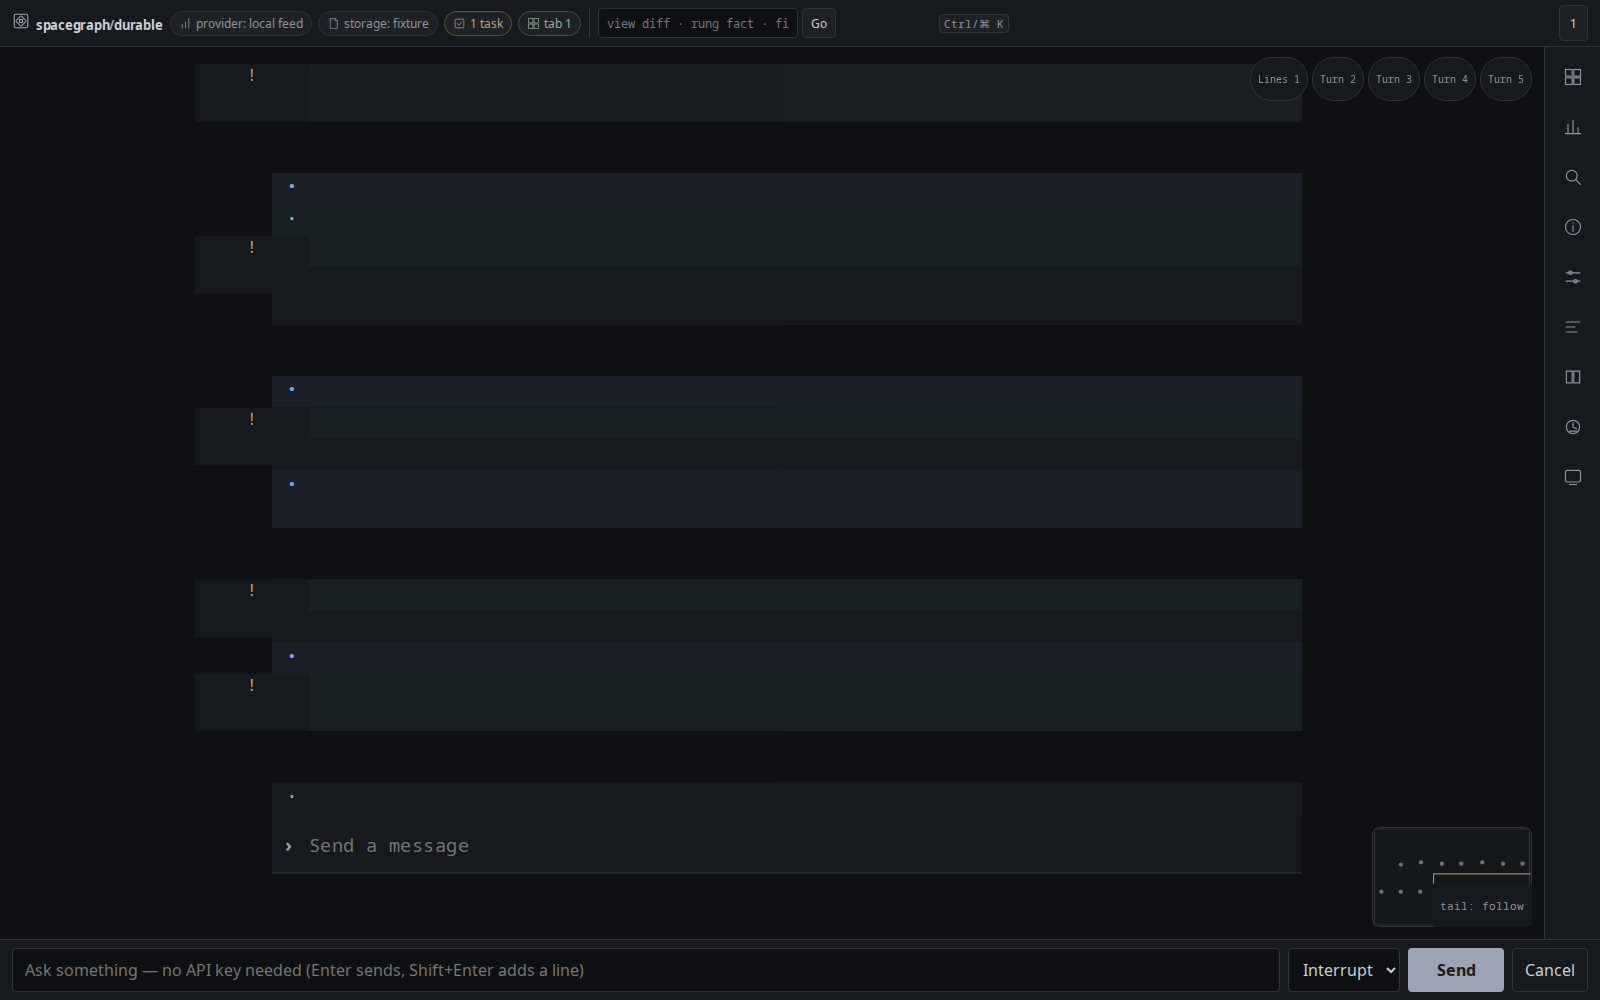
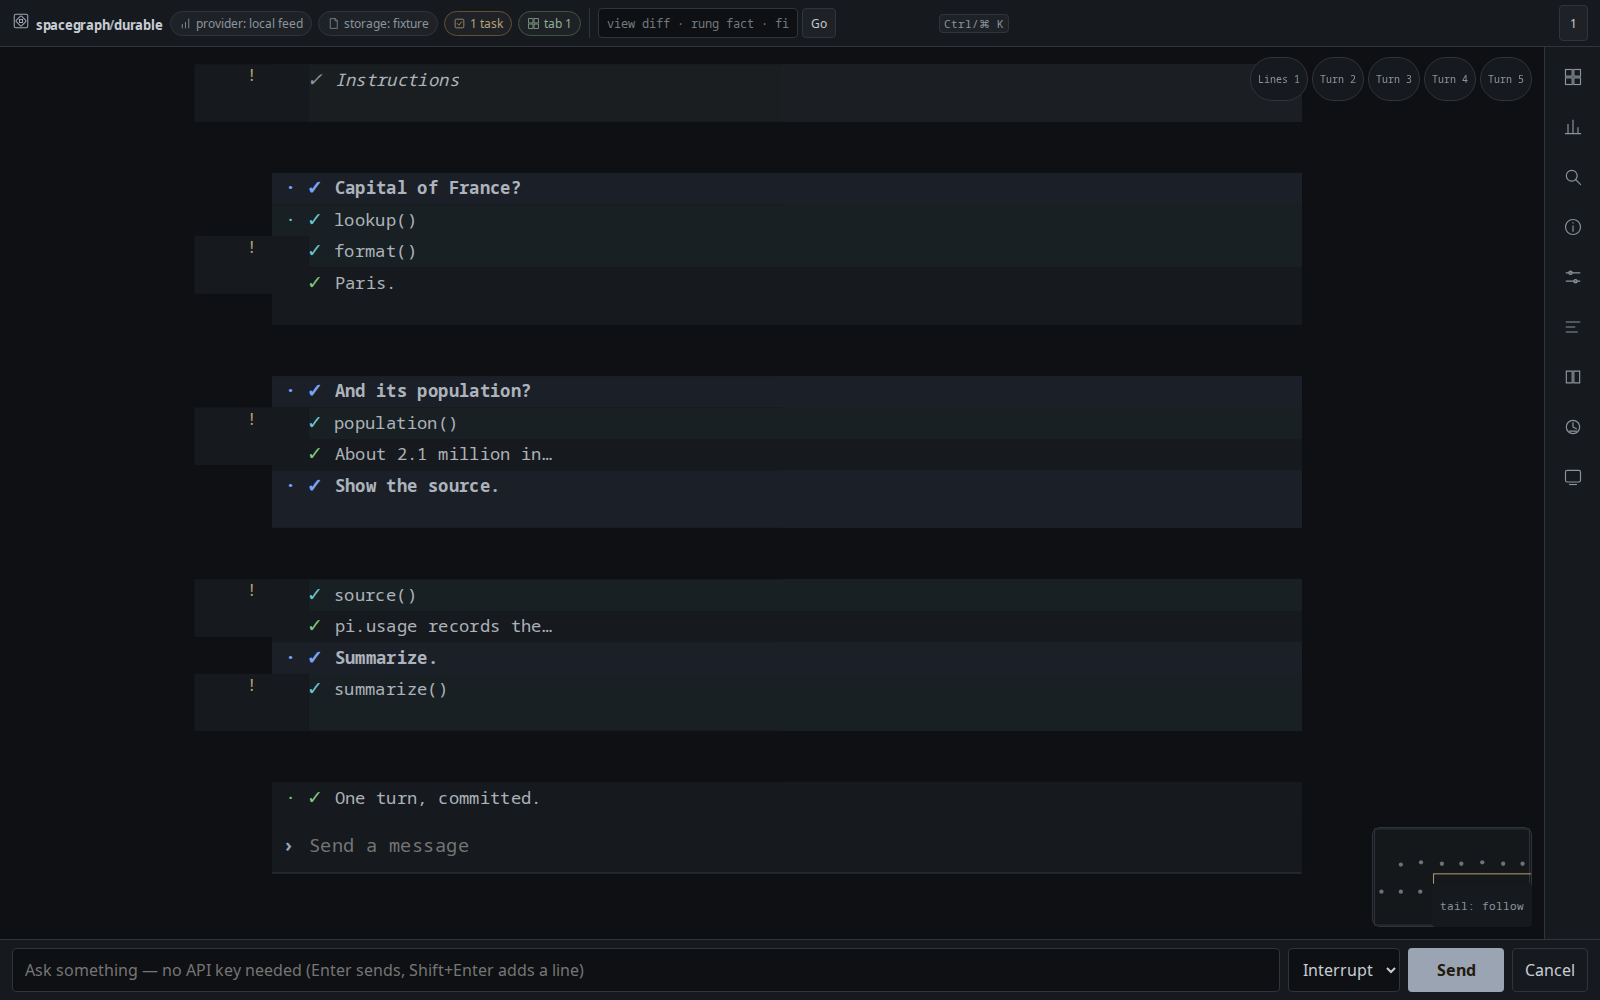
feat(terminal): make console fidelity controllable and shareable
- Add a three-stage glyph, label and text LOD with configurable stops
- Add a /lod catalog command with auto mode to pin or release fidelity
- Round-trip the pinned band through compact and full permalinks
- Initialize LOD from the current camera instead of a default guess
- Update the fractal capture and E2E coverage

diff --git a/app/pi-durable/src/host.ts b/app/pi-durable/src/host.ts
@@ -65,6 +65,7 @@ import {
     mountTerminalPrompt,
     mountTerminalSink,
     playTerminalReplay,
+    TERMINAL_LOD_BANDS,
     TERMINAL_MODES,
     TERMINAL_PALETTES,
     TERMINAL_PROFILES,
@@ -755,6 +756,7 @@ export class DurableHost {
     #consoleGrid: TerminalGrid = CONSOLE_GRID;
     #regionsEnabled = false;
     #consoleLOD = 'card';
+    #lodOverride: string | undefined;
     #hoveredLine: string | undefined;
     #consoleModel: RenderModel = { nodes: [], edges: [] };
     #a11yLayer: AccessibilityLayer | undefined;
@@ -794,6 +796,9 @@ export class DurableHost {
 
     async mount(container: HTMLElement): Promise<void> {
         await this.renderer.mount(container, { theme: THEME, projection: '2d' });
+        this.#consoleLOD = terminalLODFor(
+            this.#scale.normalizedAt(this.renderer.getViewport().zoom),
+        );
         this.renderer.on('nodeClick', ({ id }) => {
             if (this.#viewName !== 'transcript') this.focus(id);
         });
@@ -801,7 +806,7 @@ export class DurableHost {
         this.renderer.on('viewportChange', ({ zoom, center }) => {
             this.patchView({ camera: { zoom, center } });
             const lod = terminalLODFor(this.#scale.normalizedAt(zoom));
-            if (lod !== this.#consoleLOD) {
+            if (!this.#lodOverride && lod !== this.#consoleLOD) {
                 this.#consoleLOD = lod;
                 if (this.#viewName === 'transcript') this.#terminalController?.refresh();
             }
@@ -1819,6 +1824,7 @@ export class DurableHost {
         const bookmark = [...this.#bookmarks.values()].at(-1);
         if (bookmark) params.set('bm', terminalBookmark.encode(bookmark));
         if (this.#regionsEnabled) params.set('regions', 'on');
+        if (this.#lodOverride) params.set('lod', this.#lodOverride);
         const viewport = this.renderer.getViewport?.();
         if (viewport) params.set('zoom', viewport.zoom.toFixed(3));
         return `${location.pathname}?${params.toString()}`;
@@ -1882,6 +1888,7 @@ export class DurableHost {
             lens: inConsole ? this.#lensTrail.current?.id : undefined,
             bm: bookmark ? terminalBookmark.encode(bookmark) : undefined,
             regions: inConsole && this.#regionsEnabled ? 'on' : undefined,
+            lod: inConsole ? this.#lodOverride : undefined,
         };
     }
 
@@ -1918,6 +1925,27 @@ export class DurableHost {
         Object.assign(this.#consolePresentation, presentation);
         this.refresh();
         return this.#consolePresentation;
+    }
+
+    /** Pin a fidelity band, or `auto` to follow camera zoom again. */
+    consoleLOD(band?: string): string {
+        if (band === undefined) return this.#lodOverride ?? this.#consoleLOD;
+        if (band === 'auto') {
+            this.#lodOverride = undefined;
+            this.#consoleLOD = terminalLODFor(
+                this.#scale.normalizedAt(this.renderer.getViewport().zoom),
+            );
+        } else if (TERMINAL_LOD_BANDS.includes(band as (typeof TERMINAL_LOD_BANDS)[number])) {
+            this.#lodOverride = band;
+            this.#consoleLOD = band;
+        } else {
+            this.announce(`Unknown console fidelity: ${band}`);
+            return this.#lodOverride ?? this.#consoleLOD;
+        }
+        Object.assign(this.#consolePresentation, { zoomLOD: true });
+        this.#terminalController?.refresh();
+        this.announce(`Console fidelity: ${this.#consoleLOD}`);
+        return this.#consoleLOD;
     }
 
     #consoleLayout(lines = this.#terminalController?.lines() ?? []) {
@@ -2001,6 +2029,9 @@ export class DurableHost {
         });
         action('regions', (rest) => {
             this.setConsoleRegions(rest !== 'off');
+        });
+        action('lod', (rest) => {
+            this.consoleLOD(rest.trim() || 'auto');
         });
         action('lens.focus', (rest) => {
             this.consoleFocus(rest);
@@ -2512,6 +2543,7 @@ export class DurableHost {
             this.#terminalController?.select(range);
             if (address.pal) this.#terminal()?.setPalette(address.pal);
             if (address.regions !== undefined) this.setConsoleRegions(address.regions === 'on');
+            if (address.lod) this.consoleLOD(address.lod);
             if (address.lens) this.consoleFocus(address.lens);
             const bookmark = terminalBookmark.decode(address.bm);
             if (bookmark) {
@@ -2589,7 +2621,7 @@ export class DurableHost {
                 return terminalExport(terminal.lines(), terminal.selection(), format);
             },
             consoleBand: () => this.#terminalController?.band() ?? DEFAULT_RUNG_IDS[0],
-            consoleLOD: () => this.#consoleLOD,
+            consoleLOD: (band?: string) => this.consoleLOD(band),
             consoleChapters: () => terminalChapters(lines()),
             consoleReplaySteps: () => terminalReplaySteps(lines()).length,
             consoleChapterRail: () =>

diff --git a/src/terminal.ts b/src/terminal.ts
@@ -707,6 +707,7 @@ export const terminalConsoleCommands = (
         entry('fork', 'fork', '/fork [line]', ['branch'], gate(gates.fork, 'Nothing to fork')),
         entry('why', 'why', '/why', ['provenance']),
         entry('monitor', 'monitor', '/monitor', ['sidecar', 'logtail']),
+        entry('lod', 'lod', '/lod <dot|glyph|card|detail|auto>', ['fidelity', 'density']),
         entry('autoZoom', 'auto zoom', '/auto zoom', ['regions', 'flyTo']),
         entry('regions', 'regions', '/regions [on|off]', ['bands']),
         entry('read.lens', 'read lens', '/read lens [scope]', ['document', 'reading']),
@@ -1272,13 +1273,31 @@ export const lineHTML = (
     return `<span class="tg-gutter">${escapeHtml(lineGlyph(line, glyphs))} ${escapeHtml(statusGlyph(line, glyphs))}</span><span class="tg-text"${direction ? ` dir="${direction}"` : ''}>${text}</span>`;
 };
 
+export const TERMINAL_LOD_BANDS = ['dot', 'glyph', 'card', 'detail'] as const;
+export type TerminalLODBand = (typeof TERMINAL_LOD_BANDS)[number];
+
+export type TerminalLODStops = {
+    readonly dot?: number;
+    readonly glyph?: number;
+    readonly detail?: number;
+};
+
+const DEFAULT_LOD_STOPS: TerminalLODStops = { dot: 0.15, glyph: 0.4, detail: 0.9 };
+
 /** Map a continuous zoom position (0 far, 1 near) onto the terminal fidelity ladder. */
 export const terminalLODFor = (
     normalized: number,
     ladder: readonly string[] = DEFAULT_RUNG_IDS,
+    stops: TerminalLODStops = DEFAULT_LOD_STOPS,
 ): string => {
     const index =
-        normalized < 0.15 ? 0 : normalized < 0.4 ? 1 : normalized < 0.9 ? 2 : ladder.length - 1;
+        normalized < (stops.dot ?? 0.15)
+            ? 0
+            : normalized < (stops.glyph ?? 0.4)
+              ? 1
+              : normalized < (stops.detail ?? 0.9)
+                ? 2
+                : ladder.length - 1;
     return ladder[index]!;
 };
 
@@ -1287,18 +1306,32 @@ export type TerminalLineHTMLOptions = {
     readonly matches?: readonly (readonly [number, number])[];
     readonly band?: string;
     readonly ladder?: readonly string[];
+    /** Characters kept in the label stage between glyph and full text. */
+    readonly labelChars?: number;
 };
 
-/** At far zoom bands a line becomes an accessible glyph; identity and text remain addressable. */
+/** Zoom fidelity: glyph, short label, or full text. Identity and text stay addressable throughout. */
 export const terminalLineHTML = (
     line: TerminalLine,
     glyphs: TerminalGlyphs = terminalGlyphs(),
-    { direction, matches = [], band, ladder = DEFAULT_RUNG_IDS }: TerminalLineHTMLOptions = {},
+    {
+        direction,
+        matches = [],
+        band,
+        ladder = DEFAULT_RUNG_IDS,
+        labelChars = 20,
+    }: TerminalLineHTMLOptions = {},
 ): string => {
     const at = band ? ladder.indexOf(band) : ladder.length - 1;
-    if (at >= 0 && at <= 1) {
-        const label = escapeHtml(line.text || line.label);
-        return `<span class="tg-glyph-only" aria-label="${label}" title="${label}">${escapeHtml(lineGlyph(line, glyphs))}</span>`;
+    const label = line.text || line.label;
+    const escaped = escapeHtml(label);
+    const gutter = `<span class="tg-gutter">${escapeHtml(lineGlyph(line, glyphs))} ${escapeHtml(statusGlyph(line, glyphs))}</span>`;
+    if (at === 0)
+        return `<span class="tg-glyph-only" aria-label="${escaped}" title="${escaped}">${escapeHtml(lineGlyph(line, glyphs))}</span>`;
+    if (at === 1) {
+        const short = escapeHtml(label.slice(0, Math.max(1, labelChars)).trim());
+        const suffix = label.length > labelChars ? '…' : '';
+        return `${gutter}<span class="tg-glyph-label" aria-label="${escaped}" title="${escaped}">${short}${suffix}</span>`;
     }
     return lineHTML(line, glyphs, direction, matches);
 };

diff --git a/app/pi-durable/src/address.ts b/app/pi-durable/src/address.ts
@@ -1,4 +1,4 @@
-import { TERMINAL_MODES, type TerminalMode } from 'spacegraphjs/terminal';
+import { TERMINAL_LOD_BANDS, TERMINAL_MODES, type TerminalMode } from 'spacegraphjs/terminal';
 import { viewStateCodec, type ViewStateRecord } from 'spacegraphjs/view-state';
 import { LAYOUT_NAMES, type LayoutName } from './lens';
 import { isRung, type Rung } from './rungs';
@@ -31,6 +31,8 @@ export type Address = {
     readonly bm?: string;
     /** Console region overlays, encoded as `on`. */
     readonly regions?: string;
+    /** Pinned console fidelity band, from `TERMINAL_LOD_BANDS`. */
+    readonly lod?: string;
 };
 
 export const CONSOLE_DETAIL_MODES = ['inline', 'popup', 'rail'] as const;
@@ -70,24 +72,28 @@ const flatten = (address: Address): ViewStateRecord => ({
     lens: address.lens,
     bm: address.bm,
     regions: address.regions,
+    lod: address.lod,
 });
 
 const parse = (record: ViewStateRecord): Address | undefined => {
     const {
         view, layout, focus, zoom, asOf, s, shot, sel, tail, pal, det, q, mode, lens, bm, regions,
+        lod,
     } = record;
     if (typeof det === 'string' && !parseDetailKey(det)) return undefined;
     if (mode !== undefined && !TERMINAL_MODES.includes(mode as TerminalMode)) return undefined;
+    if (lod !== undefined && !TERMINAL_LOD_BANDS.includes(lod as (typeof TERMINAL_LOD_BANDS)[number]))
+        return undefined;
     const band: unknown = record.band ?? record.rung;
     if (view !== undefined && !VIEW_NAMES.includes(view as ViewName)) return undefined;
     if (band !== undefined && !isRung(band)) return undefined;
     if (layout !== undefined && !LAYOUT_NAMES.includes(layout as LayoutName)) return undefined;
-    for (const value of [s, shot, focus, sel, tail, pal, det, q, lens, bm, regions])
+    for (const value of [s, shot, focus, sel, tail, pal, det, q, lens, bm, regions, lod])
         if (value !== undefined && typeof value !== 'string') return undefined;
     return Object.fromEntries(
         Object.entries({
             s, shot, view, rung: band, layout, asOf, zoom, focus, sel, tail, pal, det, q,
-            mode, lens, bm, regions,
+            mode, lens, bm, regions, lod,
         }).filter(([, value]) => value !== undefined),
     ) as Address;
 };
@@ -96,7 +102,7 @@ const codec = viewStateCodec<Address>({
     format: 'compact',
     keys: [
         's', 'shot', 'view', 'band', 'rung', 'layout', 'asOf', 'zoom', 'focus', 'sel', 'tail',
-        'pal', 'det', 'q', 'mode', 'lens', 'bm', 'regions', 'version',
+        'pal', 'det', 'q', 'mode', 'lens', 'bm', 'regions', 'lod', 'version',
     ],
     flatten,
     parse,

diff --git a/app/pi-durable/tests/zoom-lod.spec.ts b/app/pi-durable/tests/zoom-lod.spec.ts
@@ -1,9 +1,7 @@
 import { expect, test } from '@playwright/test';
 import { bootConsole, call, settle } from './boot';
 
-test('fractal profile collapses console text at far zoom and restores it close up', async ({
-    page,
-}) => {
+test('fractal profile steps through glyph, label and text fidelity', async ({ page }) => {
     const errors = await bootConsole(page);
     const lod = (): Promise<string> => call<string>(page, 'consoleLOD');
     await expect(page.locator('#canvas .tg-text').first()).toBeVisible();
@@ -11,20 +9,41 @@ test('fractal profile collapses console text at far zoom and restores it close u
     await call(page, 'consoleProfile', 'fractal');
     await settle(page);
     expect(await lod()).toBe('glyph');
-    await expect(page.locator('#canvas .tg-glyph-only').first()).toBeVisible();
-    expect(
-        await page.locator('#canvas .sg-terminal-line[data-lod="glyph"]').count(),
-    ).toBeGreaterThan(0);
+    await expect(page.locator('#canvas .tg-glyph-label').first()).toBeVisible();
     expect(await page.locator('#canvas .tg-text').count()).toBe(0);
     expect(await page.locator('#canvas [data-node-id^="chapter-label-"]').count()).toBe(0);
 
-    await call(page, 'zoomBy', 2);
+    await call(page, 'zoomBy', 0.4);
+    await settle(page);
+    expect(await lod()).toBe('dot');
+    await expect(page.locator('#canvas .tg-glyph-only').first()).toBeVisible();
+    expect(await page.locator('#canvas .tg-glyph-label').count()).toBe(0);
+
+    await call(page, 'zoomBy', 5);
     await settle(page);
     expect(await lod()).toBe('card');
     expect(await page.locator('#canvas .tg-text').count()).toBeGreaterThan(0);
     expect(
         await page.locator('#canvas [data-node-id^="chapter-label-"]').count(),
     ).toBeGreaterThan(0);
+    expect(errors).toEqual([]);
+});
+
+test('a pinned fidelity band survives a permalink', async ({ page }) => {
+    const errors = await bootConsole(page);
+    const lod = (): Promise<string> => call<string>(page, 'consoleLOD');
+    expect(await call<string>(page, 'consoleLOD', 'dot')).toBe('dot');
+    expect(await lod()).toBe('dot');
+    expect(await page.locator('#canvas .tg-glyph-only').count()).toBeGreaterThan(0);
+
+    const link = await call<string>(page, 'permalink');
+    expect(link).toContain('lod=dot');
+    await call(page, 'zoomBy', 2);
+    expect(await lod()).toBe('dot');
+    await call(page, 'applyPermalink', link);
+    expect(await lod()).toBe('dot');
+    await call(page, 'consoleLOD', 'auto');
+    expect(await lod()).toBe('glyph');
     expect(errors).toEqual([]);
 });
 

diff --git a/test/terminal.test.ts b/test/terminal.test.ts
@@ -364,8 +364,11 @@ describe('glyph grammar', () => {
         expect(far).not.toContain('tg-text');
         expect(far).not.toContain('<b>');
         expect(terminalLineHTML(entry, terminalGlyphs(), { band: 'glyph' })).toContain(
-            'tg-glyph-only',
+            'tg-glyph-label',
         );
+        const short = terminalLineHTML(entry, terminalGlyphs(), { band: 'glyph', labelChars: 3 });
+        expect(short).toContain('&lt;b&gt;…');
+        expect(short).toContain('aria-label="&lt;b&gt;x&lt;/b&gt;"');
         expect(terminalLineHTML(entry, terminalGlyphs(), { band: 'card' })).toContain('tg-text');
         expect(terminalLineHTML(entry, terminalGlyphs())).toContain('tg-text');
         expect(
@@ -384,6 +387,7 @@ describe('zoom fidelity ladder', () => {
         expect(terminalLODFor(0.5)).toBe('card');
         expect(terminalLODFor(1)).toBe('detail');
         expect(terminalLODFor(1, ['far', 'near'])).toBe('near');
+        expect(terminalLODFor(0.5, undefined, { dot: 0.1, glyph: 0.2, detail: 0.4 })).toBe('detail');
     });
 });
 
@@ -1042,7 +1046,7 @@ describe('console command catalog', () => {
         expect(commands.list().map((command) => command.id)).toEqual([
             'copy', 'export', 'search', 'filter', 'read', 'zoom',
             'pin.live', 'pin.snapshot',
-            'pin.matches', 'profile', 'asOf', 'fork', 'why', 'monitor', 'autoZoom', 'regions',
+            'pin.matches', 'profile', 'asOf', 'fork', 'why', 'monitor', 'lod', 'autoZoom', 'regions',
             'read.lens',
             'lens.focus', 'bookmark', 'help',
         ]);

diff --git a/app/pi-durable/index.html b/app/pi-durable/index.html
@@ -105,6 +105,8 @@
             .sg-terminal-line .tg-text { min-width: 0; color: var(--text); white-space: pre-wrap; }
             .sg-terminal-line .tg-text[dir='rtl'] { direction: rtl; text-align: right; flex: 1; }
             .sg-terminal-line .tg-glyph-only { color: var(--line-accent); font-size: 16px; line-height: 1; }
+            .sg-terminal-line .tg-glyph-label { color: var(--text); opacity: .85; font-size: 12px;
+                letter-spacing: .02em; white-space: nowrap; overflow: hidden; text-overflow: ellipsis; }
             .sg-terminal-line[data-role='user'] { --line-accent: #7aa2f7; font-weight: 600;
                 background: color-mix(in srgb, #7aa2f7 5%, transparent); }
             .sg-terminal-line[data-role='assistant'] { --line-accent: #7ec87e; }

diff --git a/app/pi-durable/tests/address.test.ts b/app/pi-durable/tests/address.test.ts
@@ -7,7 +7,7 @@ const address: Address = {
     sel: 'd:1:message:1:0~d:1:message:2:8', tail: 'd:1:message:2',
     pal: 'retro', det: 'popup~d:1:message:2',
     q: 'ERROR', mode: 'derived',
-    lens: 'line:d:1:message:2', bm: 'bookmark-token',
+    lens: 'line:d:1:message:2', bm: 'bookmark-token', regions: 'on', lod: 'dot',
 };
 
 describe('deep-link codec', () => {
@@ -41,5 +41,6 @@ describe('deep-link codec', () => {
         expect(decodeAddress(btoa('zoom=NaN'))).toBeUndefined();
         expect(decodeAddress(btoa('secret=1'))).toBeUndefined();
         expect(decodeAddress(btoa('mode=nowhere'))).toBeUndefined();
+        expect(decodeAddress(btoa('lod=huge'))).toBeUndefined();
     });
 });
